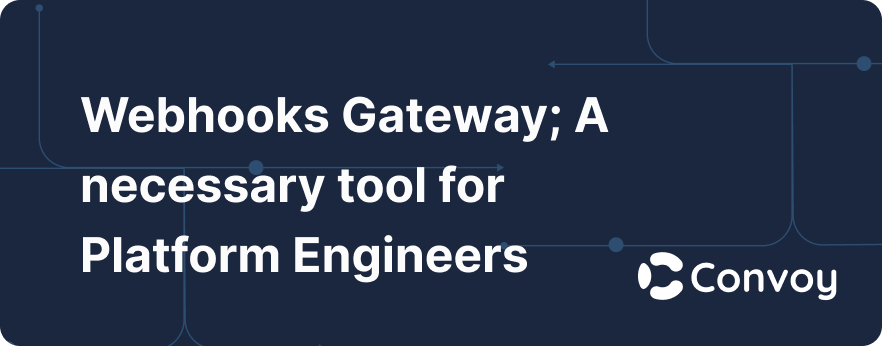
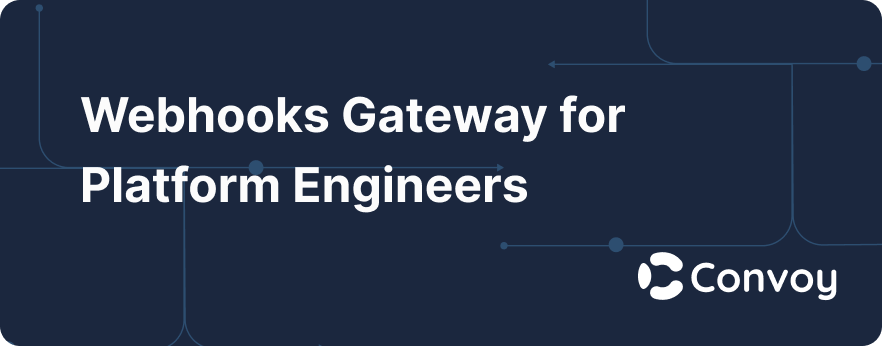
feat: fixed webhooks gateway for platform engineers title and thumbnail

Changed region(s): [[0.0918, 0.4624, 0.6122, 0.6358], [0.0918, 0.6647, 0.6122, 0.8382], [0.6122, 0.2601, 0.7041, 0.4046]]

diff --git a/content/blog/webhooks-gateway-a-necessary-tool-for-platform-engineers.md b/content/blog/webhooks-gateway-a-necessary-tool-for-platform-engineers.md
@@ -1,5 +1,5 @@
 ---
-title: Webhooks Gateways; A necessary tool for Platform Engineers
+title: Webhooks Gateways for Platform Engineers
 feature_image: webhook-gateways-for-platform-engineers.png
 post_image: webhook-gateways-for-platform-engineers.png
 primary_author:
